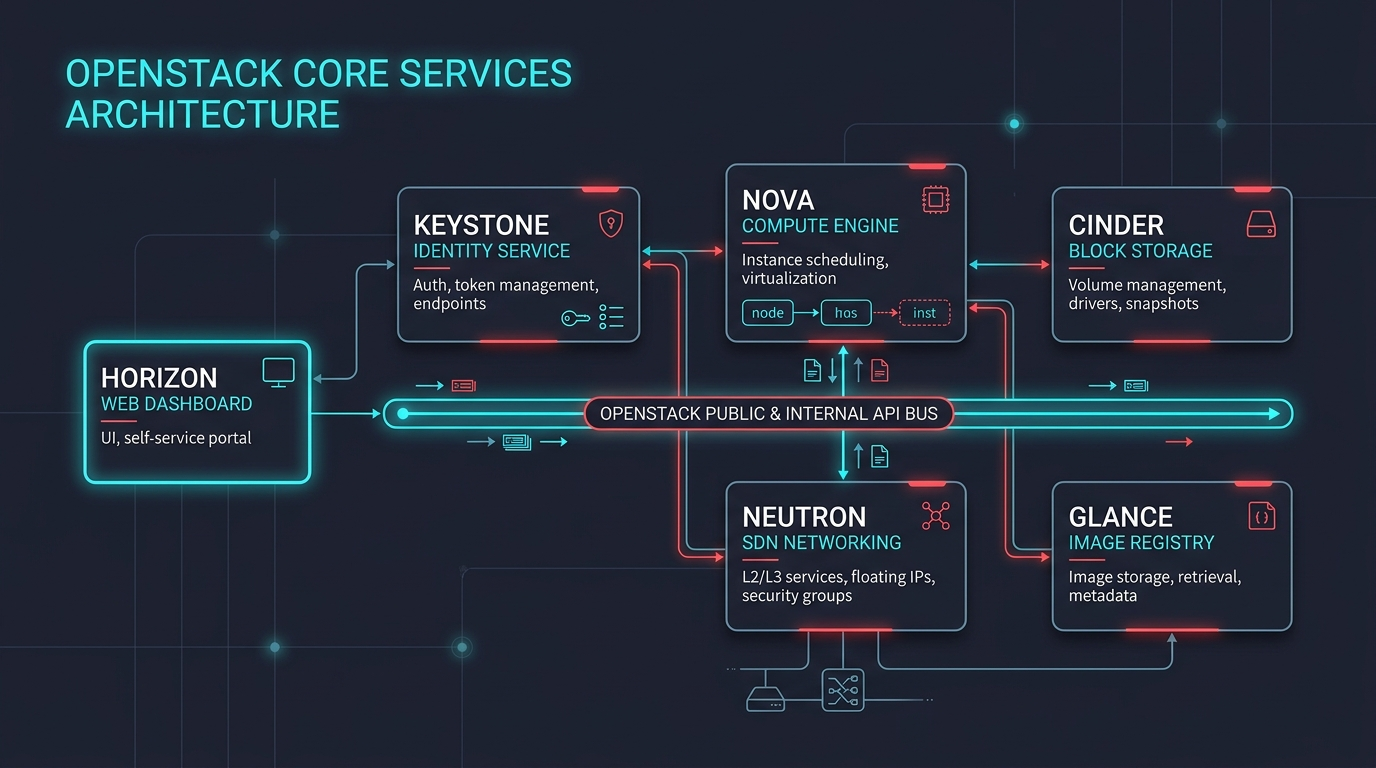
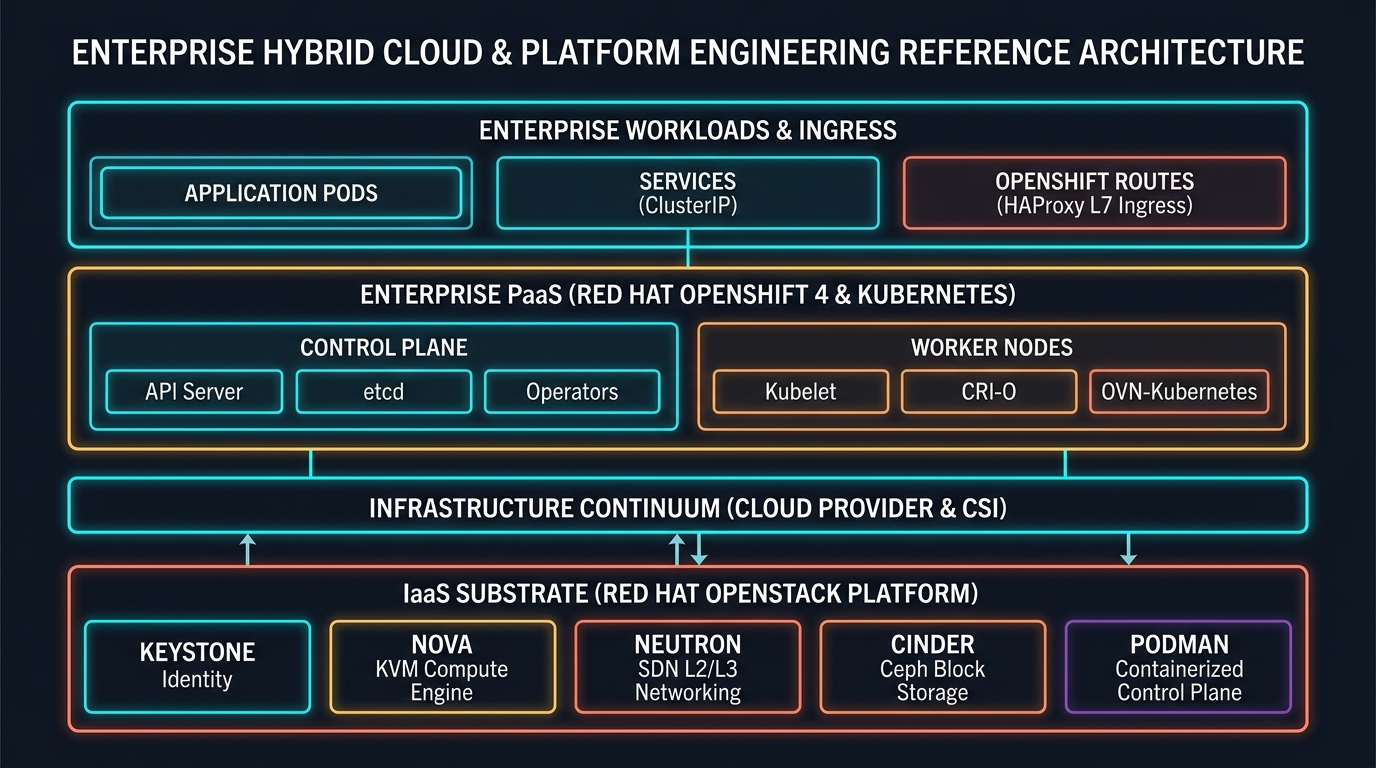
chore(governance): standardize canonical repo name, license, visual flows, and course branding

diff --git a/README.md b/README.md
@@ -1,7 +1,6 @@
 # Enterprise Multi-Tenant IaaS, Private Cloud & Platform Architecture Blueprint
 
-[![FIAP MBA](https://img.shields.io/badge/FIAP-MBA%20Cloud%20Strategy%20%26%20Architecture-ED145B?logo=fiap&logoColor=white)](https://www.fiap.com.br/mba/mba-em-cloud-strategy-architecture/)
-[![Release](https://img.shields.io/badge/Release-v2026.1.0-007EC6?logo=github)](https://github.com/rafaelmatsuyama/FIAP-2026-CLD-CloudBuilders/releases)
+[![FIAP MBA](https://img.shields.io/badge/FIAP-MBA%20MultiCloud%20Strategy%20%26%20Architecture-ED145B?logo=fiap&logoColor=white)](https://www.fiap.com.br/mba/mba-em-multicloud-strategy-architect/)
 ![RHEL 8/9](https://img.shields.io/badge/RHEL-8%2F9%20Enterprise-EE0000?logo=redhat&logoColor=white)
 ![OpenStack](https://img.shields.io/badge/OpenStack-RHOSP%2016.2%20Train-ED1944?logo=openstack&logoColor=white)
 ![Red Hat OpenShift](https://img.shields.io/badge/OpenShift-4.x%20PaaS-EE0000?logo=redhatopenshift&logoColor=white)
@@ -10,7 +9,7 @@
 ![Code License](https://img.shields.io/badge/Code-Apache%202.0-green.svg)
 ![Content License](https://img.shields.io/badge/Content-CC%20BY--NC--SA%204.0-orange.svg)
 
-> **Official reference architecture and hands-on laboratory suite developed for the [MBA em Cloud Strategy & Architecture](https://www.fiap.com.br/mba/mba-em-cloud-strategy-architecture/) at FIAP.**  
+> **Official reference architecture and hands-on laboratory suite developed for the [MBA em MultiCloud Strategy & Architecture](https://www.fiap.com.br/mba/mba-em-multicloud-strategy-architect/) at FIAP.**  
 > *Covering Private Cloud Foundations (OpenStack / RHOSP CL110), Containerized Control Plane Engineering (Podman / Systemd), Multi-Tenant SDN Isolation, and the Enterprise Transition to Cloud-Native PaaS (Red Hat OpenShift & Kubernetes).*
 
 ---
@@ -36,7 +35,7 @@ This repository establishes an end-to-end, enterprise-grade **Reference Architec
 
 ## 🏗 End-to-End Architectural Flow
 
-![Red Hat OpenStack Platform CL110 Cluster Topology](assets/cluster_topology.jpg)
+![End-to-End Cloud Infrastructure Lifecycle Flow](assets/architectural_flow.jpg)
 
 ### Lifecycle Architecture Matrix
 
@@ -76,6 +75,8 @@ Modern infrastructure architects do not treat OpenStack and OpenShift as competi
 ---
 
 ## 🚀 Quickstart Guide (Red Hat Academy Environment)
+
+![Red Hat Academy Lab Cluster Topology](assets/cluster_topology.jpg)
 
 ### Prerequisites & Access:
 All hands-on labs are executed on the **Red Hat Academy (CL110 / DO180)** remote lab environment:
@@ -143,11 +144,11 @@ This repository adheres to **Calendar Versioning with Cycle and Patch semantics 
 ```
 
 * **Deterministic Reproducibility:** Each tagged release provides an immutable snapshot where all lab guides, CLI commands, and configurations are guaranteed to execute deterministically without runtime drift.
-* **Cohort Pinning:** To pin your environment to this specific release:
+* **Cohort Pinning:** Tagged releases provide immutable curriculum snapshots for cohorts:
   ```bash
-  git checkout tags/v2026.1.0
+  git checkout tags/vYYYY.CYCLE.PATCH
   ```
-* Formal releases and changelogs are published on the official [GitHub Releases](https://github.com/rafaelmatsuyama/FIAP-2026-CLD-CloudBuilders/releases) page.
+* Formal releases and changelogs are published on the official [GitHub Releases](https://github.com/rafaelmatsuyama/FIAP-CLD-CloudBuilders/releases) page.
 
 ---
 
@@ -159,11 +160,13 @@ This repository adheres to **Calendar Versioning with Cycle and Patch semantics 
 
 * 🌐 **LinkedIn:** [linkedin.com/in/rafaelmatsuyama](https://www.linkedin.com/in/rafaelmatsuyama/)
 * 🐙 **GitHub:** [github.com/rafaelmatsuyama](https://github.com/rafaelmatsuyama)
-* 🏫 **Institution:** [FIAP — MBA em Cloud Strategy & Architecture](https://www.fiap.com.br/mba/mba-em-cloud-strategy-architecture/)
+* 🏫 **Institution:** [FIAP — MBA em MultiCloud Strategy & Architecture](https://www.fiap.com.br/mba/mba-em-multicloud-strategy-architect/)
 
 ---
 
 ## 📄 License & Intellectual Property
 
-* **Code & Scripts:** Licensed under the **[Apache License 2.0](https://www.apache.org/licenses/LICENSE-2.0)**.
-* **Educational Materials & Documentation:** Licensed under the **[Creative Commons Attribution-NonCommercial-ShareAlike 4.0 International (CC BY-NC-SA 4.0)](https://creativecommons.org/licenses/by-nc-sa/4.0/)**.
+This repository employs a dual-licensing model (see full terms in [`LICENSE`](./LICENSE)):
+
+* **Code, Scripts & Configurations:** Licensed under the **[Apache License 2.0](https://www.apache.org/licenses/LICENSE-2.0)**.
+* **Educational Materials & Courseware:** Licensed under the **[Creative Commons Attribution-NonCommercial-ShareAlike 4.0 International (CC BY-NC-SA 4.0)](https://creativecommons.org/licenses/by-nc-sa/4.0/)**.
